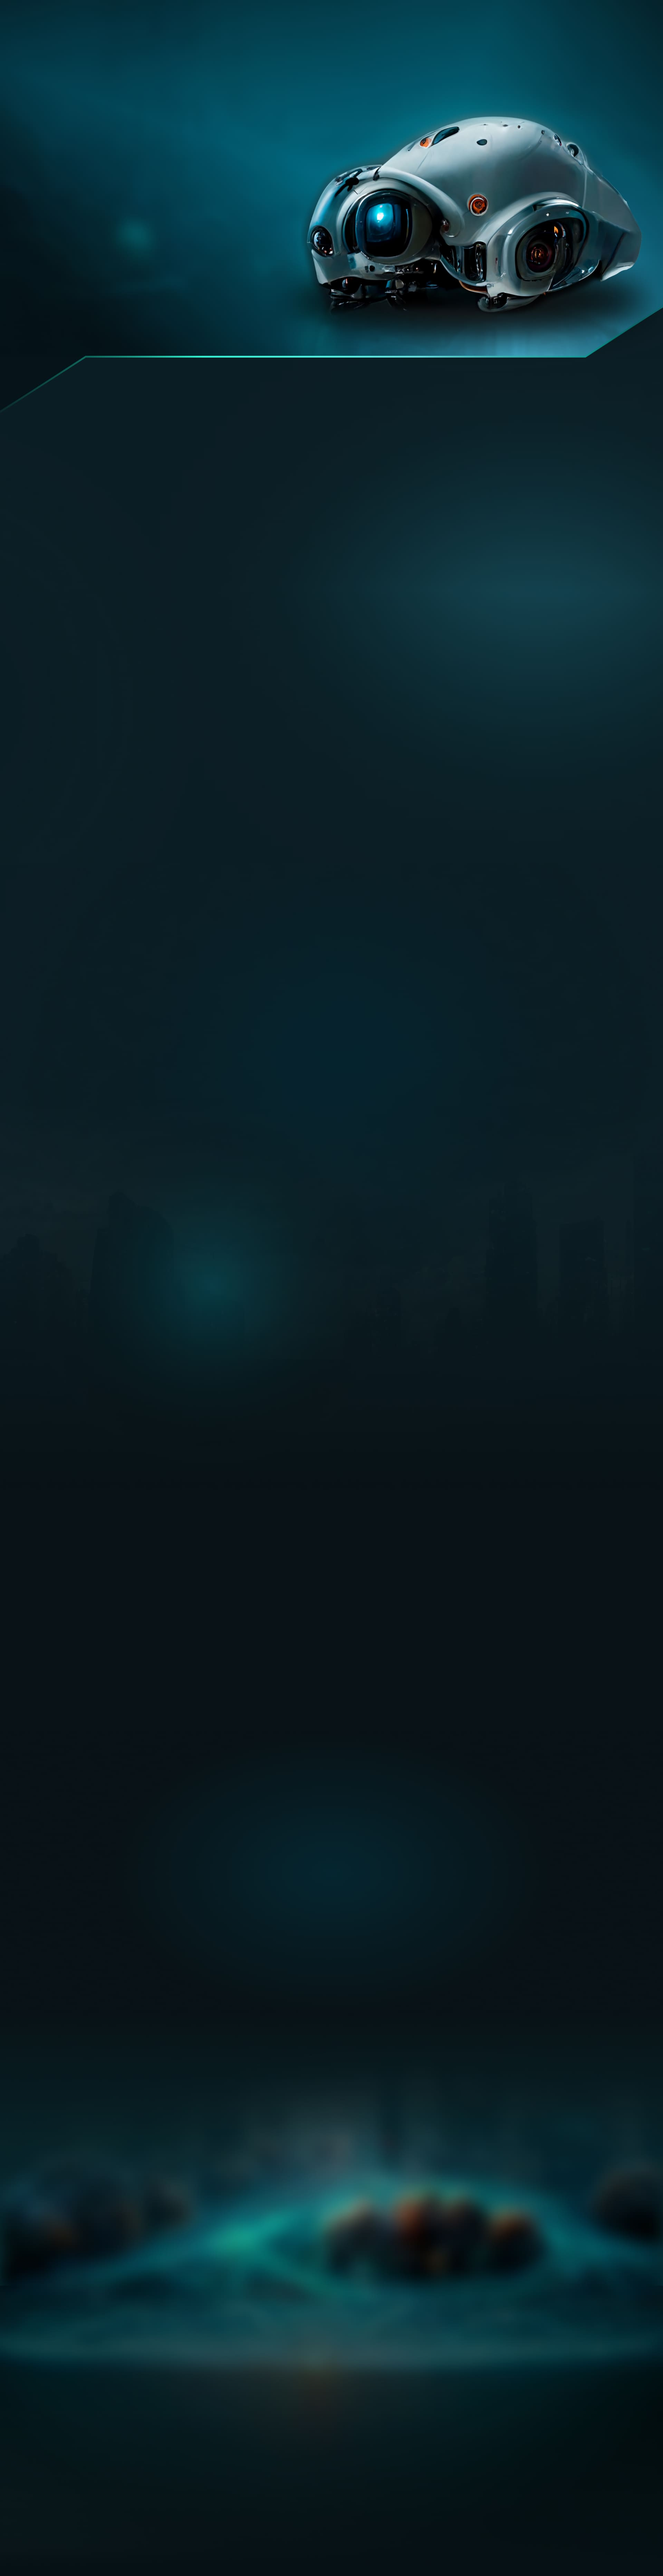
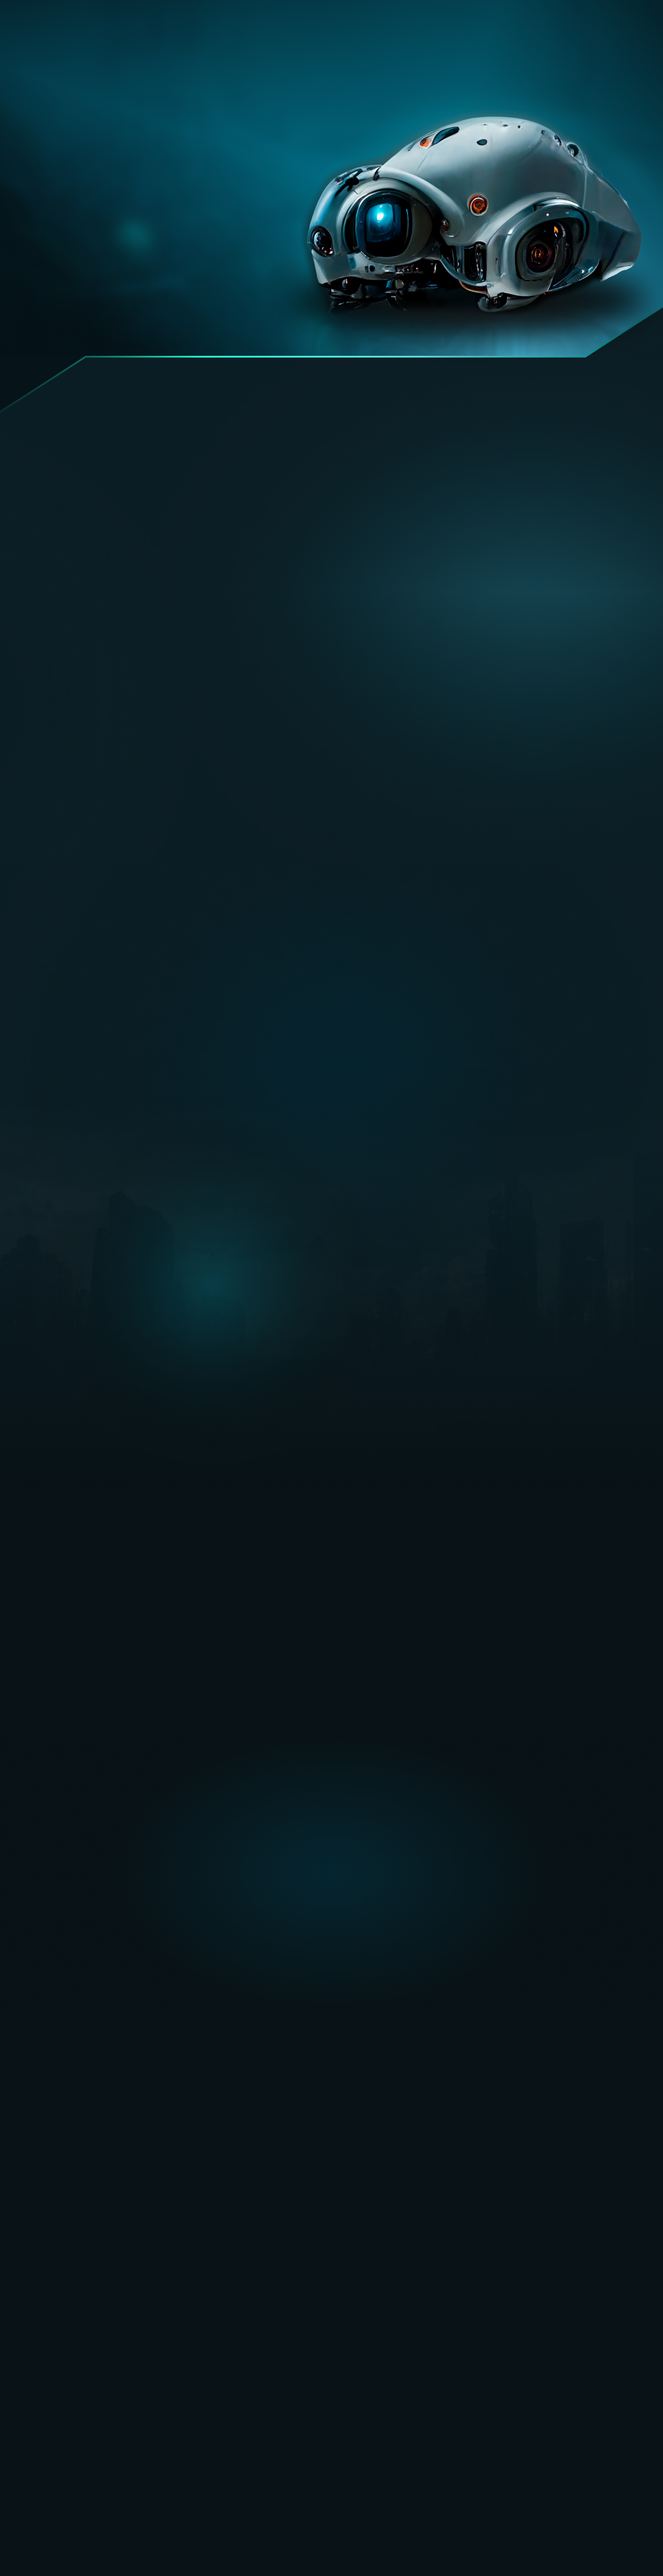
resized images in mobile tables slider

Changed region(s): [[0.0, 0.8093, 1.0, 0.9339]]

diff --git a/index.html b/index.html
@@ -198,41 +198,47 @@
                     <section class="table_wrapper">
 
                         <div class="table_slider">
-                            <div class="table_slide_item">
+
+                            <div class="table_slide_item table_slide_item1">
                                 <img class="slick_arrow prev slick_planshet_arrow" src="img/Mobile_bg/arr_up.svg"
                                     alt="">
                                 <img class="slick_arrow next slick_planshet_arrow" src="img/Mobile_bg/arr_bottom.svg"
                                     alt="">
                                 <img class="slide_img" src="img/Mobile_bg/2018.png" alt="2018">
                             </div>
-                            <div class="table_slide_item">
+
+                            <div class="table_slide_item table_slide_item2">
                                 <img class="slick_arrow prev slick_planshet_arrow" src="img/Mobile_bg/arr_up.svg"
                                     alt="">
                                 <img class="slick_arrow next slick_planshet_arrow" src="img/Mobile_bg/arr_bottom.svg"
                                     alt="">
                                 <img class="slide_img" src="img/Mobile_bg/2019.png" alt="2019">
                             </div>
-                            <div class="table_slide_item">
+
+                            <div class="table_slide_item table_slide_item3">
                                 <img class="slick_arrow prev slick_planshet_arrow" src="img/Mobile_bg/arr_up.svg"
                                     alt="">
                                 <img class="slick_arrow next slick_planshet_arrow" src="img/Mobile_bg/arr_bottom.svg"
                                     alt="">
                                 <img class="slide_img" src="img/Mobile_bg/2020.png" alt="2020">
                             </div>
-                            <div class="table_slide_item">
+
+                            <div class="table_slide_item table_slide_item4">
                                 <img class="slick_arrow prev slick_planshet_arrow" src="img/Mobile_bg/arr_up.svg"
                                     alt="">
                                 <img class="slick_arrow next slick_planshet_arrow" src="img/Mobile_bg/arr_bottom.svg"
                                     alt="">
                                 <img class="slide_img" src="img/Mobile_bg/2021.png" alt="2021">
                             </div>
-                            <div class="table_slide_item last_slide_item">
+
+                            <div class="table_slide_item table_slide_item5 last_slide_item">
                                 <img class="slick_arrow prev slick_planshet_arrow" src="img/Mobile_bg/arr_up.svg"
                                     alt="">
                                 <img class="slick_arrow next slick_planshet_arrow" src="img/Mobile_bg/arr_bottom.svg"
                                     alt="">
-                                <img class="slide_img" src="img/Mobile_bg/2022.png" alt="2022">
+                                <img class="slide_img img2022" src="img/Mobile_bg/2022.png" alt="2022">
                             </div>
+
                         </div>
                         <div class="table">
                             <img class="table_show" width="100%" src="img/Header/table.png" alt="">
@@ -307,6 +313,7 @@
     </section>
 
     <footer class="roadmap body_hide">
+        <img width="100%" src="img/Footer/Footer_line.png" alt="">
         <main class="roadmap_wrapper container">
             <h3 class="title">Можно посмотреть <span>road map?</span></h3>
             <img class="footer_city" src="img/Footer/footer_city.png" alt="">

diff --git a/css/_media.scss b/css/_media.scss
@@ -679,12 +679,6 @@
             min-height: 4px !important;
          }
       }
-      //   .prev {
-      //      background: url(../img/Mobile_bg/arr_up.svg);
-      //   }
-      //   .next {
-      //      background: url(../img/Mobile_bg/arr_bottom.svg);
-      //   }
       .slick-slide {
          margin-bottom: 30px;
          border: none;
@@ -697,6 +691,51 @@
             max-height: 322px;
             max-width: 987px !important;
             position: inherit;
+         }
+         .img2022 {
+            min-height: 210px !important;
+            max-height: 210px !important;
+            margin: 75px auto 0;
+         }
+         .table_slide_item1 {
+            .prev {
+               top: 68%;
+            }
+            .next {
+               top: 75%;
+            }
+         }
+         .table_slide_item2 {
+            .prev {
+               top: 68%;
+            }
+            .next {
+               top: 75%;
+            }
+         }
+         .table_slide_item3 {
+            .prev {
+               top: 68%;
+            }
+            .next {
+               top: 75%;
+            }
+         }
+         .table_slide_item4 {
+            .prev {
+               top: 68%;
+            }
+            .next {
+               top: 75%;
+            }
+         }
+         .table_slide_item5 {
+            .prev {
+               top: 83%;
+            }
+            .next {
+               top: 92%;
+            }
          }
       }
       .slick-active {
@@ -737,6 +776,12 @@
          max-height: 270px !important;
          max-width: 990px !important;
          position: inherit;
+      }
+
+      .img2022 {
+         min-height: 210px !important;
+         max-height: 210px !important;
+         margin: 35px auto 0 !important;
       }
    }
    .why_wrapper {
@@ -783,16 +828,35 @@
          max-width: 990px !important;
          position: inherit;
       }
+      .img2022 {
+         min-height: 210px !important;
+         max-height: 210px !important;
+         margin: 35px auto 0 !important;
+      }
+      .table_slide_item1,
+      .table_slide_item2,
+      .table_slide_item3,
+      .table_slide_item4 {
+         .prev {
+            top: 68%;
+         }
+         .next {
+            top: 78% !important;
+         }
+      }
+      .table_slide_item5 {
+         .prev {
+            top: 78% !important;
+         }
+         .next {
+            top: 91% !important;
+         }
+      }
       .slick_arrow {
          left: 14px !important;
       }
       .prev {
          transform: translate(0%, -75px) !important;
-      }
-      .last_slide_item {
-         .slick_arrow {
-            left: 19px !important;
-         }
       }
    }
    .roadmap_list {

diff --git a/css/main.css b/css/main.css
@@ -657,6 +657,41 @@
     max-width: 987px !important;
     position: inherit;
   }
+  .table_wrapper .slick-slide .img2022 {
+    min-height: 210px !important;
+    max-height: 210px !important;
+    margin: 75px auto 0;
+  }
+  .table_wrapper .slick-slide .table_slide_item1 .prev {
+    top: 68%;
+  }
+  .table_wrapper .slick-slide .table_slide_item1 .next {
+    top: 75%;
+  }
+  .table_wrapper .slick-slide .table_slide_item2 .prev {
+    top: 68%;
+  }
+  .table_wrapper .slick-slide .table_slide_item2 .next {
+    top: 75%;
+  }
+  .table_wrapper .slick-slide .table_slide_item3 .prev {
+    top: 68%;
+  }
+  .table_wrapper .slick-slide .table_slide_item3 .next {
+    top: 75%;
+  }
+  .table_wrapper .slick-slide .table_slide_item4 .prev {
+    top: 68%;
+  }
+  .table_wrapper .slick-slide .table_slide_item4 .next {
+    top: 75%;
+  }
+  .table_wrapper .slick-slide .table_slide_item5 .prev {
+    top: 83%;
+  }
+  .table_wrapper .slick-slide .table_slide_item5 .next {
+    top: 92%;
+  }
   .table_wrapper .slick-active {
     display: block !important;
   }
@@ -694,6 +729,11 @@
     max-width: 990px !important;
     position: inherit;
   }
+  .table_wrapper .img2022 {
+    min-height: 210px !important;
+    max-height: 210px !important;
+    margin: 35px auto 0 !important;
+  }
   .why_wrapper h3 br {
     display: none !important;
   }
@@ -729,15 +769,35 @@
     max-width: 990px !important;
     position: inherit;
   }
+  .table_wrapper .img2022 {
+    min-height: 210px !important;
+    max-height: 210px !important;
+    margin: 35px auto 0 !important;
+  }
+  .table_wrapper .table_slide_item1 .prev,
+.table_wrapper .table_slide_item2 .prev,
+.table_wrapper .table_slide_item3 .prev,
+.table_wrapper .table_slide_item4 .prev {
+    top: 68%;
+  }
+  .table_wrapper .table_slide_item1 .next,
+.table_wrapper .table_slide_item2 .next,
+.table_wrapper .table_slide_item3 .next,
+.table_wrapper .table_slide_item4 .next {
+    top: 78% !important;
+  }
+  .table_wrapper .table_slide_item5 .prev {
+    top: 78% !important;
+  }
+  .table_wrapper .table_slide_item5 .next {
+    top: 91% !important;
+  }
   .table_wrapper .slick_arrow {
     left: 14px !important;
   }
   .table_wrapper .prev {
     -webkit-transform: translate(0%, -75px) !important;
             transform: translate(0%, -75px) !important;
-  }
-  .table_wrapper .last_slide_item .slick_arrow {
-    left: 19px !important;
   }
   .roadmap_list {
     -ms-flex-wrap: wrap;
@@ -1627,7 +1687,7 @@ table {
 }
 
 body {
-  background: url(../img/Footer/body.jpg);
+  background: url(../img/Header/1_bg.jpg);
   background-position-x: center;
   background-repeat: no-repeat;
   background-size: cover;

diff --git a/css/main.scss b/css/main.scss
@@ -131,7 +131,7 @@ table {
 }
 
 body {
-   background: url(../img/Footer/body.jpg);
+   background: url(../img/Header/1_bg.jpg);
    background-position-x: center;
    background-repeat: no-repeat;
    background-size: cover;
@@ -389,12 +389,7 @@ body {
    margin: 0 auto;
    padding: 0 15px;
 }
-// .main_header {
-//    background: url(../img/Header/1_bg.jpg);
-//    background-repeat: no-repeat !important;
-//    background-size: cover ;
-// //    background-position: center;
-// }
+
 nav {
    display: flex;
    justify-content: space-between;

diff --git a/js/script.js b/js/script.js
@@ -173,7 +173,7 @@ for (let i = 0; i < right_arrow.length; i++) {
 for (let counter = 0; counter < footerArrows.length; counter++) {
    (function (index) {
       footerArrows[counter].addEventListener("click", () => {
-         roadmapList.classList.add("m-top250", "m-top300");
+         roadmapList.classList.add("m-top250");
          footerArrows.forEach((footerArrow) => {
             footerArrow.classList.add("footerArrowHide");
          });
